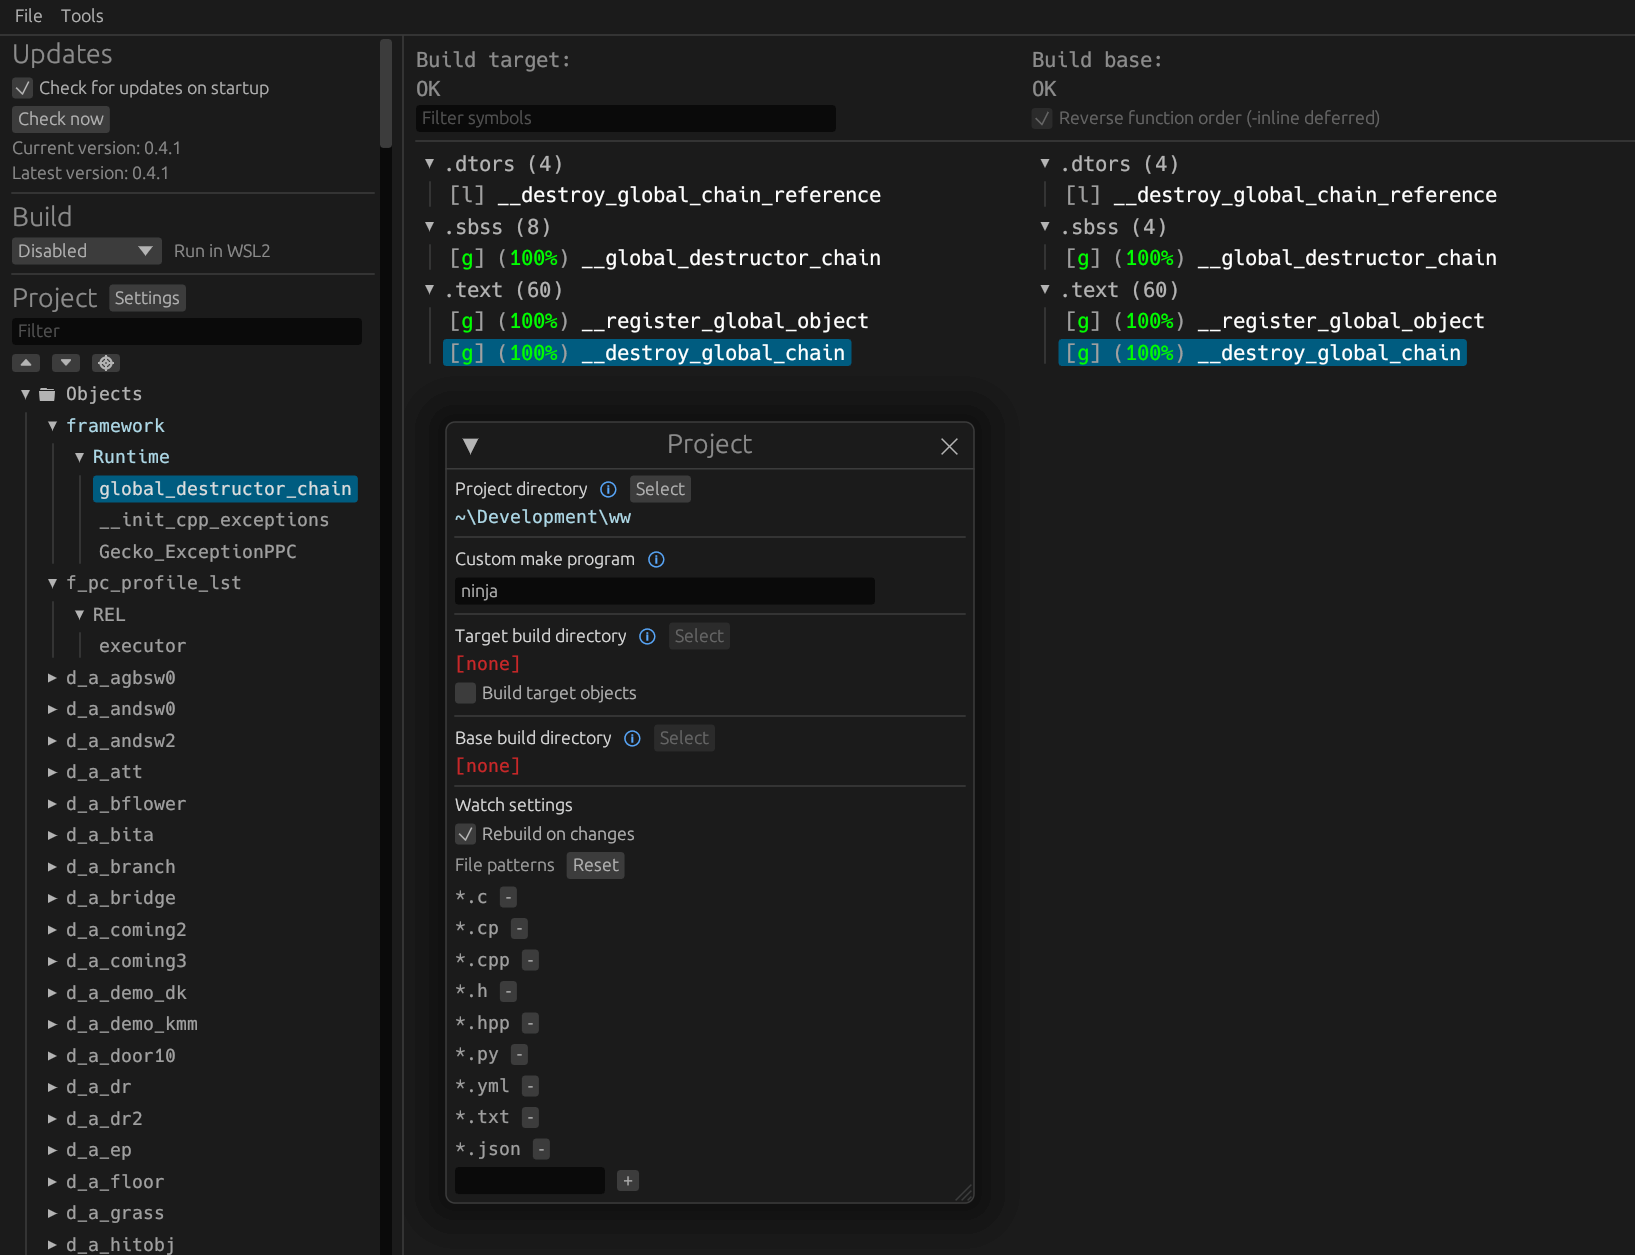
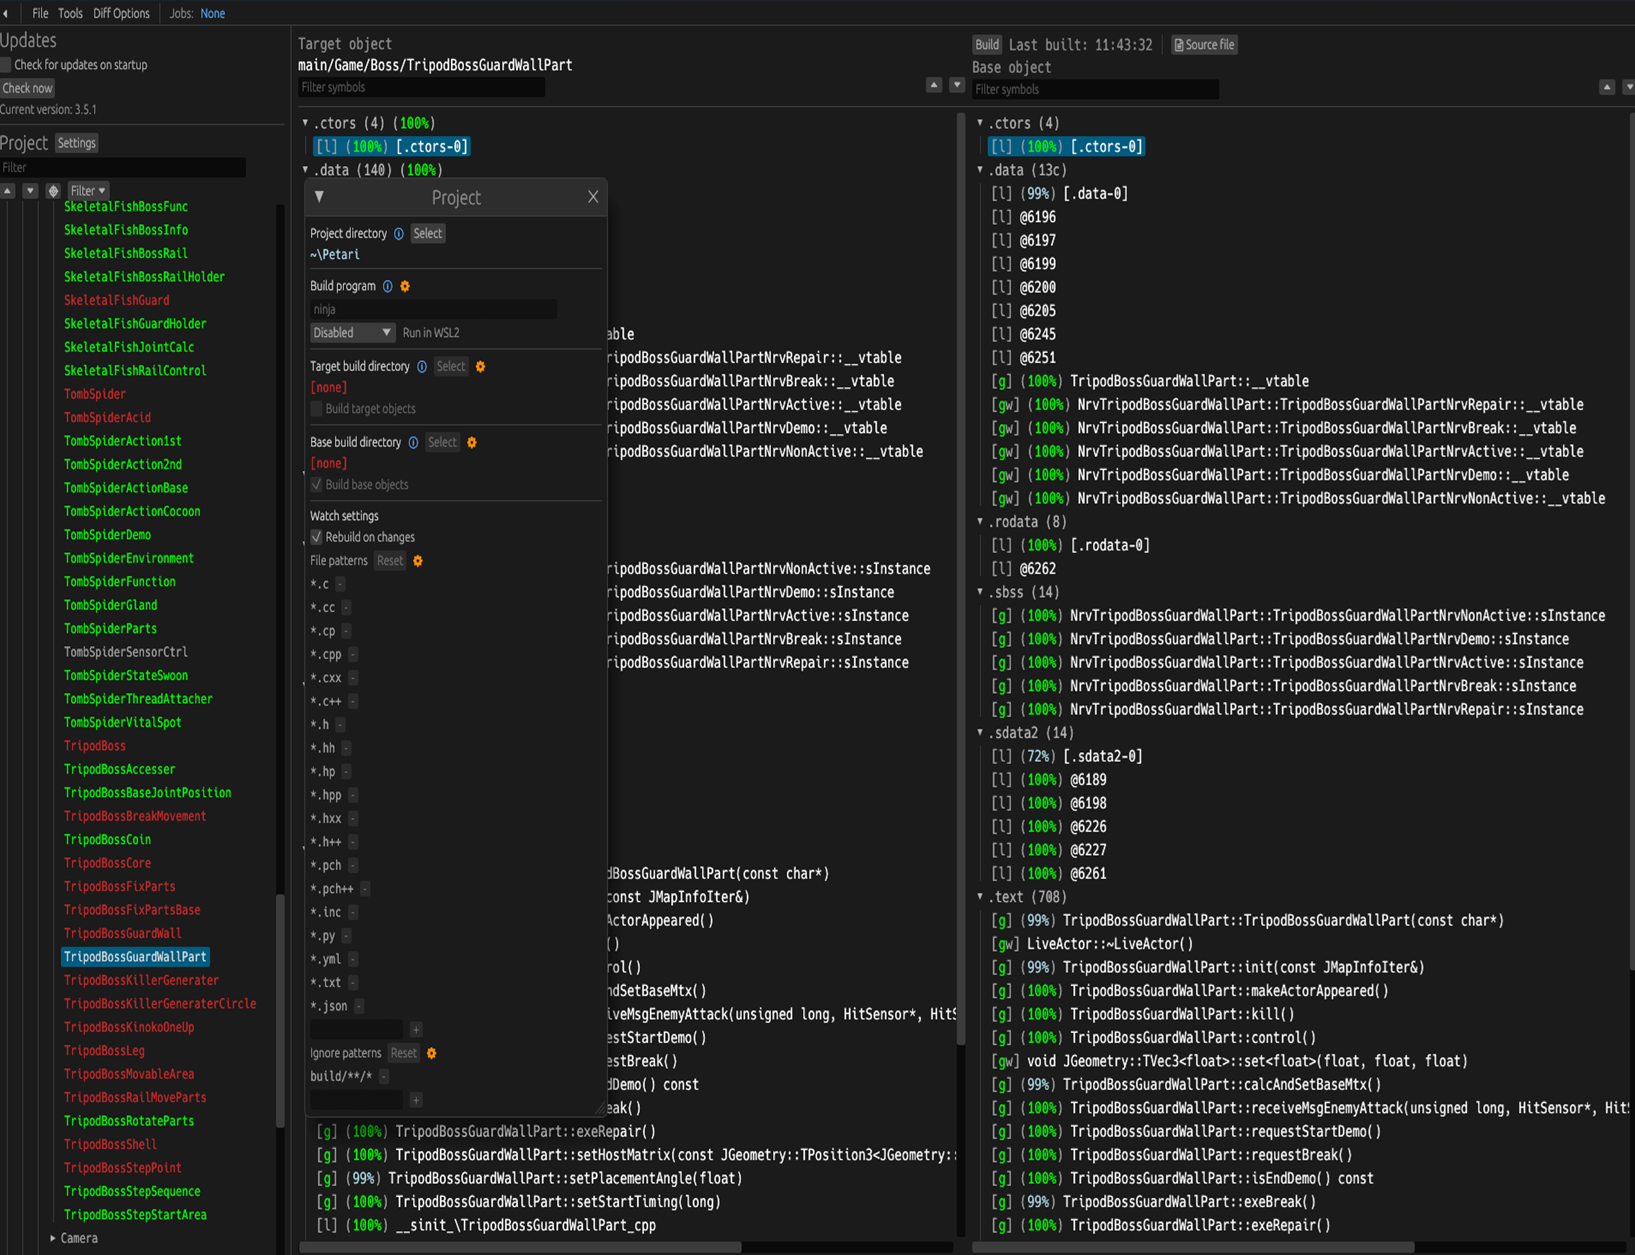
`README`

diff --git a/configure.py b/configure.py
@@ -374,6 +374,7 @@ config.libs = [
         "Map",
         [
             Object(NonMatching, "Game/Map/CollisionCode.cpp"),
+            Object(NonMatching, "Game/Map/KCollision.cpp"),
             Object(NonMatching, "Game/Map/RailGraph.cpp"),
             Object(NonMatching, "Game/Map/RailGraphEdge.cpp"),
             Object(NonMatching, "Game/Map/RailGraphIter.cpp"),

diff --git a/README.md b/README.md
@@ -1,29 +1,28 @@
-Garigari  
-=============
+Garigari
 [![Build Status]][actions] ![Progress] [![Discord Badge]][discord]
-<!--
-Replace with your repository's URL.
--->
+=============
+
 [Build Status]: https://github.com/SMGCommunity/Garigari/actions/workflows/build.yml/badge.svg
 [actions]: https://github.com/SMGCommunity/Garigari/actions/workflows/build.yml
-<!---
-Code progress URL:
-https://progress.decomp.club/data/[project]/[version]/all/?mode=shield&measure=code
-URL encoded then appended to: https://img.shields.io/endpoint?label=Code&url=
--->
+
 [Progress]: https://decomp.dev/SMGCommunity/Garigari.svg?mode=shield&measure=code&label=Code
-<!---
-DOL progress URL:
-https://progress.decomp.club/data/[project]/[version]/dol/?mode=shield&measure=code
-URL encoded then appended to: https://img.shields.io/endpoint?label=DOL&url=
--->
 
 [Discord Badge]: https://img.shields.io/discord/727908905392275526?color=%237289DA&logo=discord&logoColor=%23FFFFFF
 [discord]: https://discord.gg/ZxEqyYeZbf
+[progress_link]: https://decomp.dev/SMGCommunity/Garigari
+
+<!-- markdownlint-disable MD033 -->
+[<img src="https://decomp.dev/SMGCommunity/Garigari.svg?w=512&h=256" width="512" height="256" alt="A visual">][progress_link]
+<!-- markdownlint-enable MD033 -->
 
 A work-in-progress decompilation of Super Mario Galaxy 2.
 
 This repository does **not** contain any game assets or assembly whatsoever. An existing copy of the game is required.
+
+This project is **not** meant to be an effort to create a PC Port. Please do not ask for any information on a PC port on this repository or in the Discord server.
+
+> [!NOTE]
+> AI may be used for code cleanup, formatting, documentation, and naming assistance. AI-generated decompilation work is not allowed. Pull requests containing obvious AI-generated decompilation output or other AI slop will be rejected. Contributors should be able to explain and justify any decompilation work they submit. This also applies to all tool-generated code. We want to keep this project as human as possible.
 
 Supported versions:
 
@@ -52,24 +51,14 @@ macOS
   brew install ninja
   ```
 
-- Install [wine-crossover](https://github.com/Gcenx/homebrew-wine):
-
-  ```sh
-  brew install --cask --no-quarantine gcenx/wine/wine-crossover
-  ```
-
-After OS upgrades, if macOS complains about `Wine Crossover.app` being unverified, you can unquarantine it using:
-
-```sh
-sudo xattr -rd com.apple.quarantine '/Applications/Wine Crossover.app'
-```
+[wibo](https://github.com/decompals/wibo), a minimal 32-bit Windows binary wrapper, will be automatically downloaded and used.
 
 Linux
 ------
 
 - Install [ninja](https://github.com/ninja-build/ninja/wiki/Pre-built-Ninja-packages).
-- For non-x86(_64) platforms: Install wine from your package manager.
-  - For x86(_64), [wibo](https://github.com/decompals/wibo), a minimal 32-bit Windows binary wrapper, will be automatically downloaded and used.
+
+[wibo](https://github.com/decompals/wibo), a minimal 32-bit Windows binary wrapper, will be automatically downloaded and used.
 
 Building
 ========
@@ -80,18 +69,17 @@ Building
   git clone https://github.com/SMGCommunity/Garigari.git
   ```
 
-- Copy your game's disc image to `orig/SB4E01`.
-  - Supported formats: ISO (GCM), RVZ, WIA, WBFS, CISO, NFS, GCZ, TGC
-  - After the initial build, the disc image can be deleted to save space.
-
+- Using [Dolphin Emulator](https://dolphin-emu.org/), extract your game to `orig/GAMEID`.
+![](assets/dolphin-extract.png)
+  - To save space, the only necessary files are the following. Any others can be deleted.
+    - `sys/main.dol`
 - Configure:
 
   ```sh
   python configure.py
   ```
 
-  To use a version other than `SB4E01` (USA), specify it with `--version`.
-
+  To use a version other than `GAMEID` (USA), specify it with `--version`.
 - Build:
 
   ```sh
@@ -108,3 +96,7 @@ Download the latest release from [encounter/objdiff](https://github.com/encounte
 Select an object from the left sidebar to begin diffing. Changes to the project will rebuild automatically: changes to source files, headers, `configure.py`, `splits.txt` or `symbols.txt`.
 
 ![](assets/objdiff.png)
+
+Credits
+=======
+Big thanks to the [doldecomp team](https://github.com/doldecomp/sdk_2009-12-11) for their efforts on bte, [tp](https://github.com/zeldaret/tp) for JSystem, and [ogws](https://github.com/doldecomp/ogws/tree/master), where this repository has sourced code and headers from.
